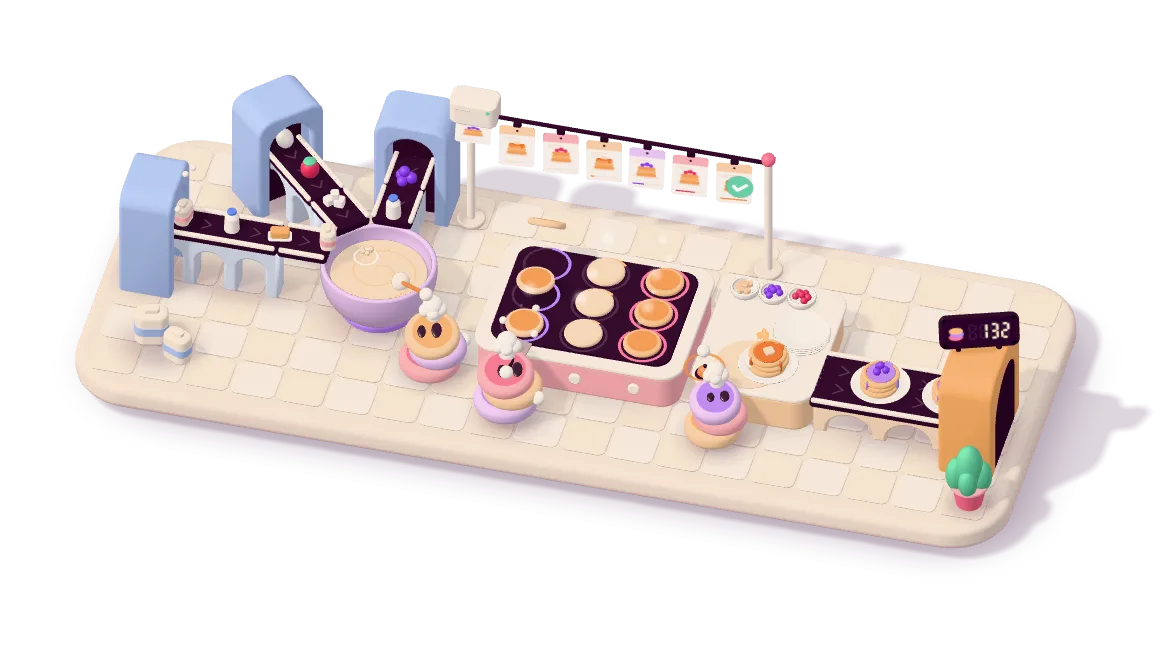
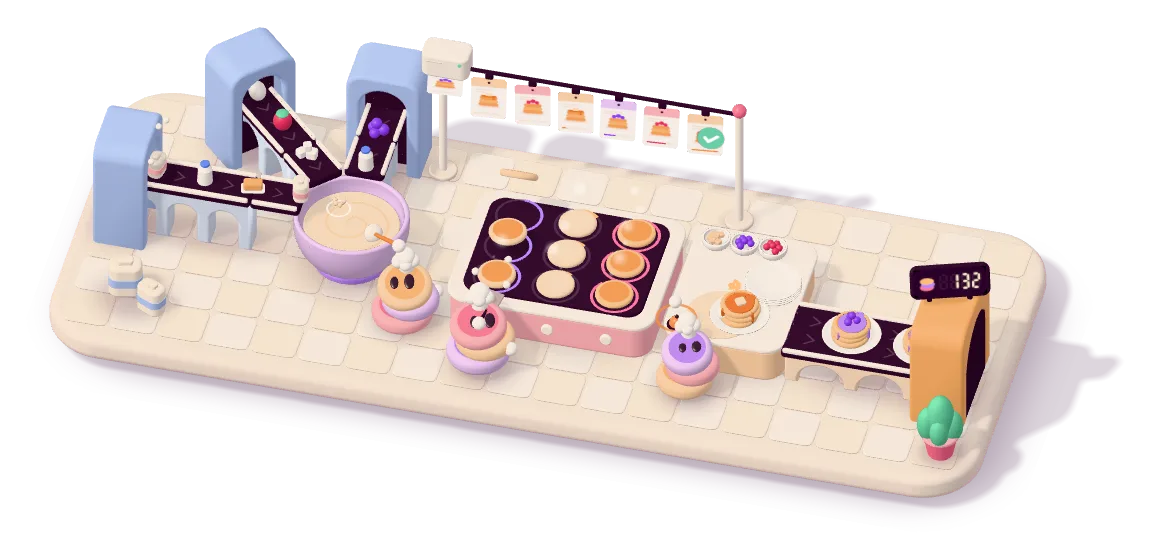
fix(home): phones show the whole kitchen as wide as the text, with no tilt
The live 3D kitchen from #399 stays on phones. Under 768 px the scene now shows a phone's own
window (PHONE_VIEW in kitchen/layout.js, measured by scripts/kitchen-phone-view.mjs). The whole
kitchen, shadow included, lands on the page's 16 px margins at any width. The phone scene is
not interactive: no tilt, no drift, no jump of a tapped chef. The six phone stills are redrawn
in that window (1170 x 546), so the scene takes over from them without a jump. Desktop is
unchanged.

Replaces #398 (the phone video loops).

diff --git a/components/sections/landing-v3/LpKitchen.tsx b/components/sections/landing-v3/LpKitchen.tsx
@@ -35,6 +35,12 @@ import { whenInput } from "./lp-play-once";
  *   away the scene is disposed and the poster is the render again, and it boots again when the
  *   visitor comes back (FAR, below). At that width the scene draws no badge (kitchen/overlay.js),
  *   as its poster.
+ * - On a phone the whole kitchen is as wide as the page's text, and neither side is cut (founder,
+ *   2026-11-12: "Faut pas qu'il dépasse des deux côtés"). The scene shows a phone's own window
+ *   (PHONE_VIEW, kitchen/layout.js) on a stage that kitchen.css makes 390 x 182. A touch no longer
+ *   turns the view ("supprimer le truc où je peux toucher et ça change l'angle"). So the phone
+ *   scene is not `interactive`: it has no tilt, no drift, and no jump of a tapped chef. Its
+ *   outline then stays on the margins, and its poster is the same picture.
  * - A device that cannot hold the loop gets the poster back for the rest of the visit (onSlow,
  *   kitchen.js: under 12 frames a second for 4 s). `?lp-gl=force` skips that test, and
  *   `?lp-nogl` keeps the poster, as for the page's other WebGL (LpRainbowGL).
@@ -52,7 +58,8 @@ let tooSlow = false;
 /** the still pictures: one per mode and cast, and one without the vendor marks on the tank */
 function poster(mode: KitchenMode, cast: KitchenCast, vendorLogos: boolean) {
   const name = `/lp/kitchen/${mode}-${cast}${mode === "without" && !vendorLogos ? "-plain" : ""}`;
-  /* wide: 1944 x 1094, with the badges. phone: 1170 x 657, without (too small to read there) */
+  /* wide: 1944 x 1094, with the badges. phone: 1170 x 546, in PHONE_VIEW, without the badges
+     (too small to read there) */
   return { wide: `${name}.webp`, phone: `${name}-phone.webp` };
 }
 
@@ -109,7 +116,7 @@ export function LpKitchen({
           if (!entry?.isIntersecting) return;
           near?.disconnect();
           import("./kitchen/kitchen")
-            .then(({ createPancakeKitchen, POSTER_TIMES }) => {
+            .then(({ createPancakeKitchen, POSTER_TIMES, PHONE_VIEW }) => {
               if (gone) return;
               const at = latest.current;
               const live = createPancakeKitchen(el, {
@@ -120,6 +127,8 @@ export function LpKitchen({
                 intro: false,
                 // a phone's picture is small: it is drawn as sharp as its poster (1170 px wide)
                 maxPixelRatio: phone.matches ? 3 : 2,
+                // a phone: the whole kitchen as wide as the text, from a still angle (PHONE)
+                ...(phone.matches ? { view: PHONE_VIEW, interactive: false } : null),
                 ...(judged
                   ? {
                       onSlow: () => {

diff --git a/components/sections/landing-v3/kitchen/kitchen.js b/components/sections/landing-v3/kitchen/kitchen.js
@@ -30,6 +30,9 @@ const DEG = Math.PI / 180;
  */
 export const POSTER_TIMES = { with: 31.52, without: 41.6 };
 
+/** a phone's window on the kitchen, for the `view` option: see layout.js */
+export { PHONE_VIEW } from "./layout.js";
+
 /**
  * A loop that cannot keep up gives the picture back (`onSlow`): under SLOW_FPS frames a second
  * for SLOW_WINDOWS windows of SLOW_WINDOW_MS in a row. A still picture is better than a slide
@@ -175,7 +178,10 @@ export function createPancakeKitchen(container, options = {}) {
     let x1 = -Infinity;
     let y0 = Infinity;
     let y1 = -Infinity;
-    for (const box of FRAME) {
+    // a window given in the camera's own units (a phone's, PHONE_VIEW) is the picture, margins
+    // included: it takes the place of the outline of FRAME and of `pad`
+    if (opts.view) [x0, x1, y0, y1] = opts.view;
+    for (const box of opts.view ? [] : FRAME) {
       for (let i = 0; i < 8; i++) {
         corner
           .set(i & 1 ? box.max[0] : box.min[0], i & 2 ? box.max[1] : box.min[1], i & 4 ? box.max[2] : box.min[2])
@@ -187,7 +193,8 @@ export function createPancakeKitchen(container, options = {}) {
       }
     }
     const aspect = width / height;
-    const half = (Math.max((y1 - y0) / 2, (x1 - x0) / 2 / aspect) * opts.pad) / opts.zoom;
+    const pad = opts.view ? 1 : opts.pad;
+    const half = (Math.max((y1 - y0) / 2, (x1 - x0) / 2 / aspect) * pad) / opts.zoom;
     const cx = opts.target ? 0 : (x0 + x1) / 2;
     const cy = opts.target ? 0 : (y0 + y1) / 2;
     camera.left = cx - half * aspect;

diff --git a/components/sections/landing-v3/kitchen/layout.js b/components/sections/landing-v3/kitchen/layout.js
@@ -155,3 +155,20 @@ export const FRAME = [
   { min: [8.3, 3.5, 0.3], max: [9.3, 4.6, 0.8] }, // the "+1" that rises
 ];
 export const CENTRE = [-0.05, 0.9, -0.6];
+
+/**
+ * What a phone shows of the kitchen (the `view` option of kitchen.js, given by LpKitchen.tsx under
+ * 768 px). It is [left, right, bottom, top] in the camera's units, from the resting angle, looking
+ * at CENTRE.
+ * On a phone the whole kitchen is as wide as the page's text, and neither side is cut (founder,
+ * 2026-11-12: "Faut pas qu'il dépasse des deux côtés"). The window is the kitchen's outline as it
+ * is drawn, with its shadow, in both modes and with both casts. It adds 16/358 of the kitchen's
+ * width on each side, and 5 % of the picture's height above and below. On phones kitchen.css
+ * makes the picture 16/358 wider than the text on each side, so the outline lands on the page's
+ * 16 px margins at any width. The window's shape, 390 x 182, is the stage's aspect ratio in
+ * kitchen.css.
+ *
+ * scripts/kitchen-phone-view.mjs measures it on the drawn picture. Measure again after you change
+ * what the kitchen spans (the slab, its shadow, a station), then draw the stills again.
+ */
+export const PHONE_VIEW = [-11.354, 12.789, -6.092, 5.175];

diff --git a/components/sections/landing-v3/kitchen/preview/preview.js b/components/sections/landing-v3/kitchen/preview/preview.js
@@ -11,9 +11,10 @@
 //   ?cast=people            little chefs in place of the pancake chefs
 //   ?logos=0                without Pancake: no vendor mark on the tank
 //   ?poster=1               the still of the mode, as the landing page's pictures are drawn
+//   ?phone=1                what a phone shows: the whole kitchen as wide as the text, no tilt
 //   ?shadows=pcf|vsm|none   ?dpr=1   ?bare=1 (the stage alone, full window)
 
-import { createPancakeKitchen, POSTER_TIMES } from "../kitchen.js";
+import { createPancakeKitchen, POSTER_TIMES, PHONE_VIEW } from "../kitchen.js";
 import { WORDS } from "../words.js";
 
 const q = new URLSearchParams(location.search);
@@ -45,6 +46,11 @@ if (q.has("poster")) {
   options.autoplay = false;
   options.interactive = true;
   options.intro = false;
+}
+if (q.has("phone")) {
+  // what a phone shows (LpKitchen.tsx under 768 px): its own window, from a still angle
+  options.view = PHONE_VIEW;
+  options.interactive = false;
 }
 if (q.has("bare")) document.body.classList.add("bare");
 

diff --git a/components/sections/landing-v3/kitchen/kitchen.d.ts b/components/sections/landing-v3/kitchen/kitchen.d.ts
@@ -36,6 +36,9 @@ export interface KitchenOptions {
   target?: [number, number, number];
   /** the margin around the kitchen (1.04) */
   pad?: number;
+  /** the window the picture shows, margins included, in place of the kitchen's outline and `pad`:
+   *  [left, right, bottom, top] in the camera's units, from the resting angle (PHONE_VIEW) */
+  view?: readonly [number, number, number, number];
   shadows?: "vsm" | "pcf" | "none";
   /** the most device pixels per CSS pixel it draws (2) */
   maxPixelRatio?: number;
@@ -79,5 +82,8 @@ export function createPancakeKitchen(container: HTMLElement, options?: KitchenOp
 
 /** the moment each still picture is drawn at; start the live scene there to take over without a jump */
 export const POSTER_TIMES: Readonly<Record<KitchenMode, number>>;
+
+/** what a phone shows: the whole kitchen, as wide as the page's text (layout.js) */
+export const PHONE_VIEW: readonly [number, number, number, number];
 
 export const PAGE_COLOR: string;

diff --git a/app/_styles/landing-v3/kitchen.css b/app/_styles/landing-v3/kitchen.css
@@ -131,6 +131,18 @@
     gap: 24px;
     padding: 16px;
   }
+  /* The whole kitchen is as wide as the text, and neither side is cut (founder, 2026-11-12). The
+     scene shows a phone's own window (PHONE_VIEW in kitchen/layout.js): the kitchen's outline,
+     with 16/358 of its width on each side. The stage reaches that same 16/358 past the text on
+     each side. So the outline lands on the page's 16 px margins at any width, and on a 390
+     phone the stage spans the screen. Its shape is the window's. On a wider screen, main.lp clips
+     what reaches past the edge. */
+  .lp-kitchen__stage {
+    aspect-ratio: 390 / 182;
+    margin-inline: calc(100% * -16 / 358);
+    max-width: none;
+    width: calc(100% * 390 / 358);
+  }
   .lp-kitchen__title {
     /* the steps title on phones: 35.559 / 41 / -3% */
     font-size: 35.559px;

diff --git a/components/sections/landing-v3/kitchen/README.md b/components/sections/landing-v3/kitchen/README.md
@@ -37,7 +37,7 @@ After a change to the words, draw the still pictures again. The next section tel
 
 ## Draw the still pictures again
 
-The section shows a still picture before the scene starts. `LpKitchen.tsx` starts the scene at the exact moment of the still (`POSTER_TIMES` in `kitchen.js`), so the scene takes over without a jump. Since 2026-11-12 a phone starts the scene too (until then the still was all it showed). A phone's still has no badge, as the scene at that width, and both use the small shadow map (see "What it costs").
+The section shows a still picture before the scene starts. `LpKitchen.tsx` starts the scene at the exact moment of the still (`POSTER_TIMES` in `kitchen.js`), so the scene takes over without a jump. Since 2026-11-12 a phone starts the scene too (until then the still was all it showed). A phone's still has no badge, as the scene at that width, and both use the small shadow map (see "What it costs"). A phone also shows its own window on the kitchen, from a still angle (see "What a phone shows"), and its still is drawn the same way.
 
 If you change the scene, its words or its logos, the stills are out of date. Run this command from the root of the repository:
 
@@ -59,6 +59,19 @@ The command sets the badges in the reading font of the landing page, from `app/f
 
 The command writes twelve files in `public/lp/kitchen`. It draws one still per mode and cast, and one more of the kitchen without Pancake with no vendor mark on the tank. Each still has a wide size and a phone size.
 
+## What a phone shows
+
+On a phone (under 768 px) the whole kitchen is as wide as the page's text, and neither side is cut. The founder asked for it on 2026-11-12. `LpKitchen.tsx` gives the scene two more options there:
+
+- `view: PHONE_VIEW`: the window the picture shows, in place of the outline of `FRAME`. It is the kitchen's outline as it is drawn, with its shadow, plus 16/358 of its width on each side. On phones `kitchen.css` makes the stage 16/358 wider than the text on each side, with the window's shape (390 x 182). So the outline lands on the page's 16 px margins at any width.
+- `interactive: false`: a touch does not turn the view. The phone has no tilt, no drift and no jump of a tapped chef, so the outline stays on the margins.
+
+`PHONE_VIEW` is in `layout.js`. It is measured on the drawn picture, in both modes and with both casts. If you change what the kitchen spans (the slab, its shadow, a station), measure it again, copy the numbers it prints into `layout.js` and `kitchen.css`, then draw the stills again:
+
+```bash
+node scripts/kitchen-phone-view.mjs
+```
+
 ## Look at the scene alone
 
 `preview/index.html` shows the scene with controls to pause it, slow it down and swap who cooks. The page loads three.js from a CDN, so it needs a network connection. Run this command from the root of the repository:
@@ -77,6 +90,7 @@ The page reads these parameters from its address:
 - `?zoom=2&target=0.3,1,-0.4` makes a close-up, here of the griddle.
 - `?speed=0.5` plays at half speed.
 - `?bare=1` shows the stage alone, and `?poster=1` the exact frame of a still.
+- `?phone=1` shows what a phone shows: its own window, with no tilt.
 
 ## What it costs
 
@@ -86,5 +100,5 @@ Because nobody did, the page protects itself (`LpKitchen.tsx`):
 
 - A device that cannot hold the loop gets the still back for the rest of the visit: under 12 frames a second for two windows of 2 s in a row (`onSlow` in `kitchen.js`).
 - A phone gives the scene's memory back once the section is two screens away. The still is the picture again, and the scene starts again when the visitor comes back.
-- A phone draws the picture at up to 3 device pixels per CSS pixel, as its still. The picture is small there: about 1074 x 603 px, a sixth of what a laptop draws.
+- A phone draws the picture at up to 3 device pixels per CSS pixel, as its still. The picture is small there: 1170 x 546 px on a 390 px phone, a sixth of what a laptop draws.
 - `?lp-nogl` keeps the still, and `?lp-gl=force` skips the test of the loop (a headless browser draws about 4 frames a second and would fail it).
